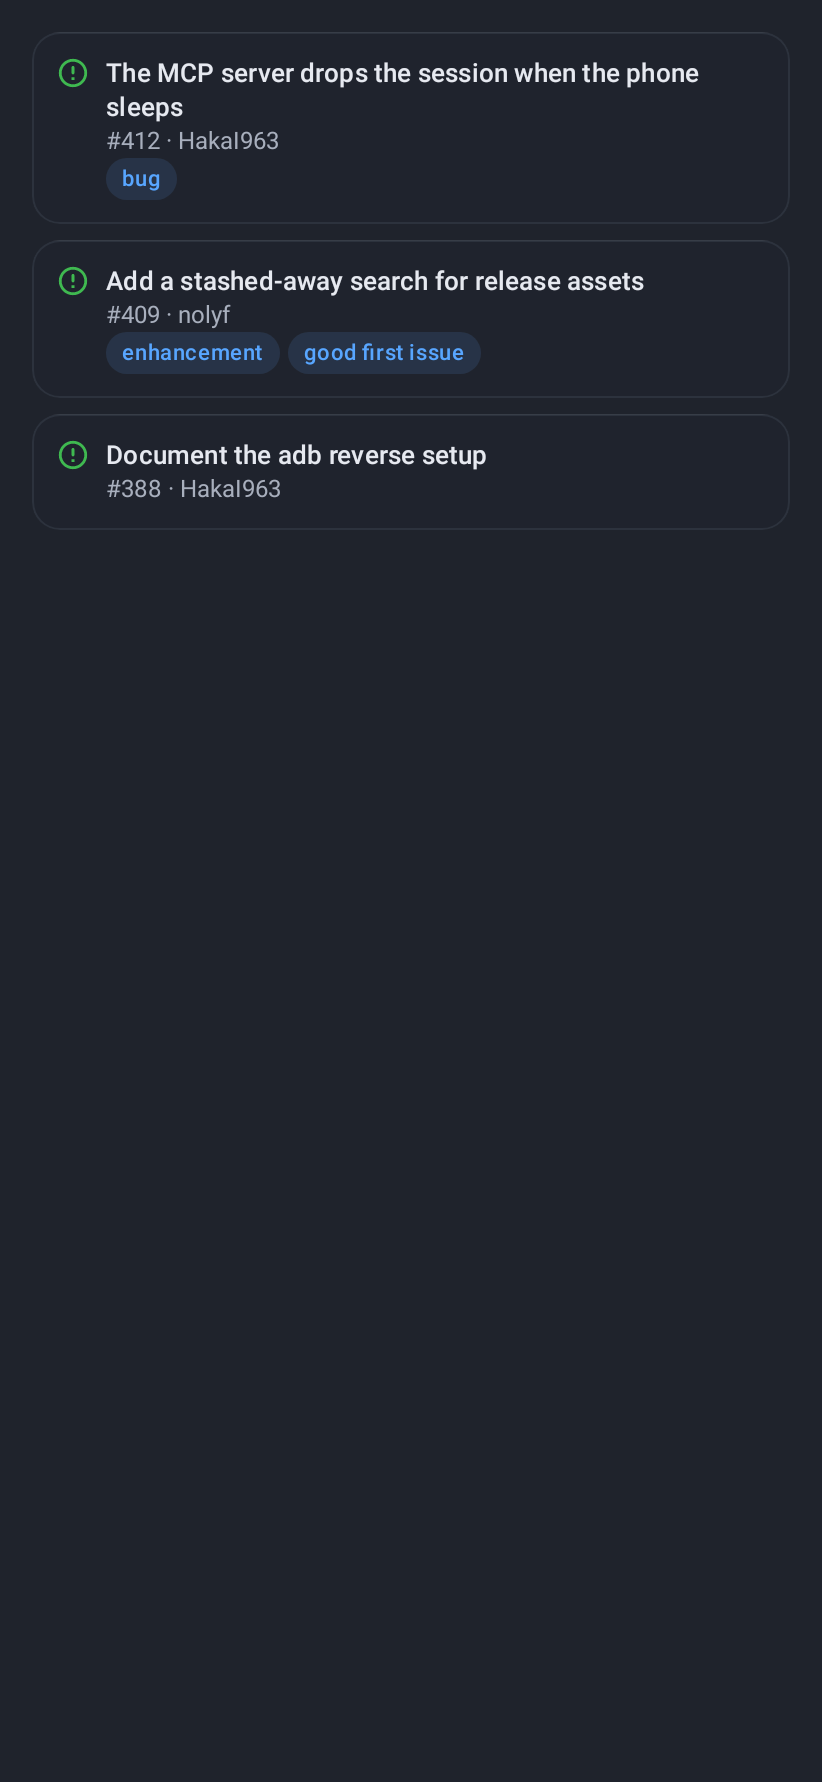
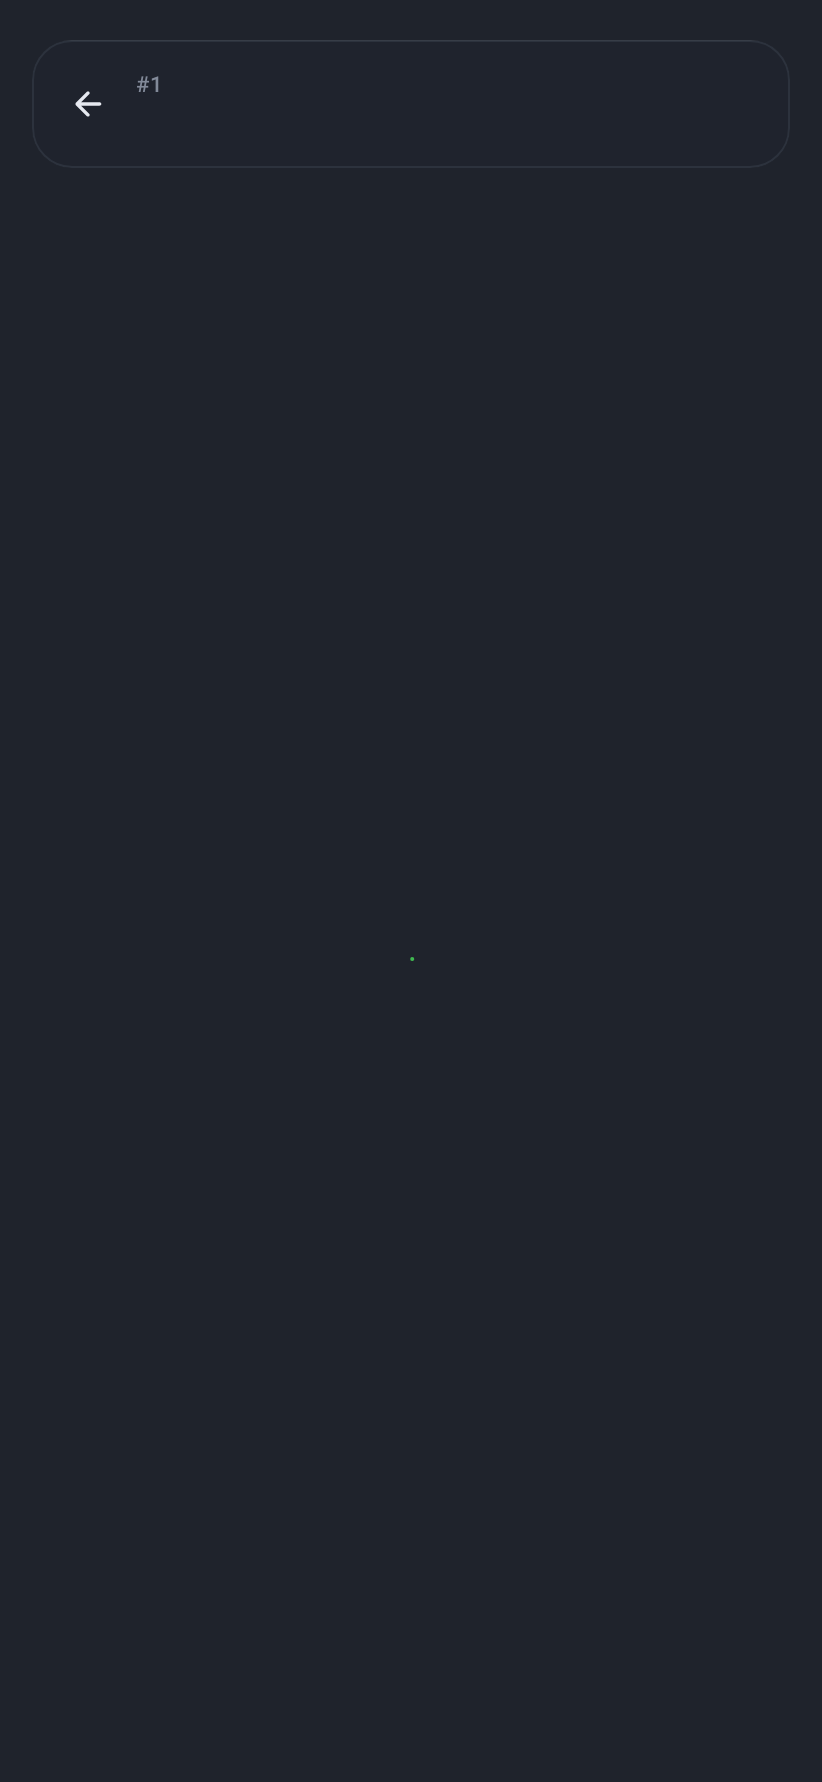
Refresh the README screenshots with the repository detail view

diff --git a/README.md b/README.md
@@ -11,9 +11,13 @@ can drive the GitHub account that is signed in on the phone.
   <em>Repositories · code · issues · pull requests · Actions · releases · search · downloads · an MCP server for your agents</em>
 </p>
 
-| Repositories | The MCP dashboard |
+| Inbox & repositories | The MCP dashboard |
 |---|---|
-| ![Repositories](docs/screenshots/07-shell-dark.png) | ![MCP](docs/screenshots/03-mcp-dark.png) |
+| ![Shell](docs/screenshots/07-shell-dark.png) | ![MCP](docs/screenshots/03-mcp-dark.png) |
+
+| Repository detail | The repository header |
+|---|---|
+| ![Repo](docs/screenshots/10-repo-detail.png) | ![Overview](docs/screenshots/09-repo-overview.png) |
 
 ---
 
@@ -206,7 +210,7 @@ The requested scope is `repo workflow read:org`.
 
 ## Screens
 
-| Issues | Actions |
+| Issue detail | Actions |
 |---|---|
 | ![Issues](docs/screenshots/05-issues-dark.png) | ![Actions](docs/screenshots/06-actions-dark.png) |
 
